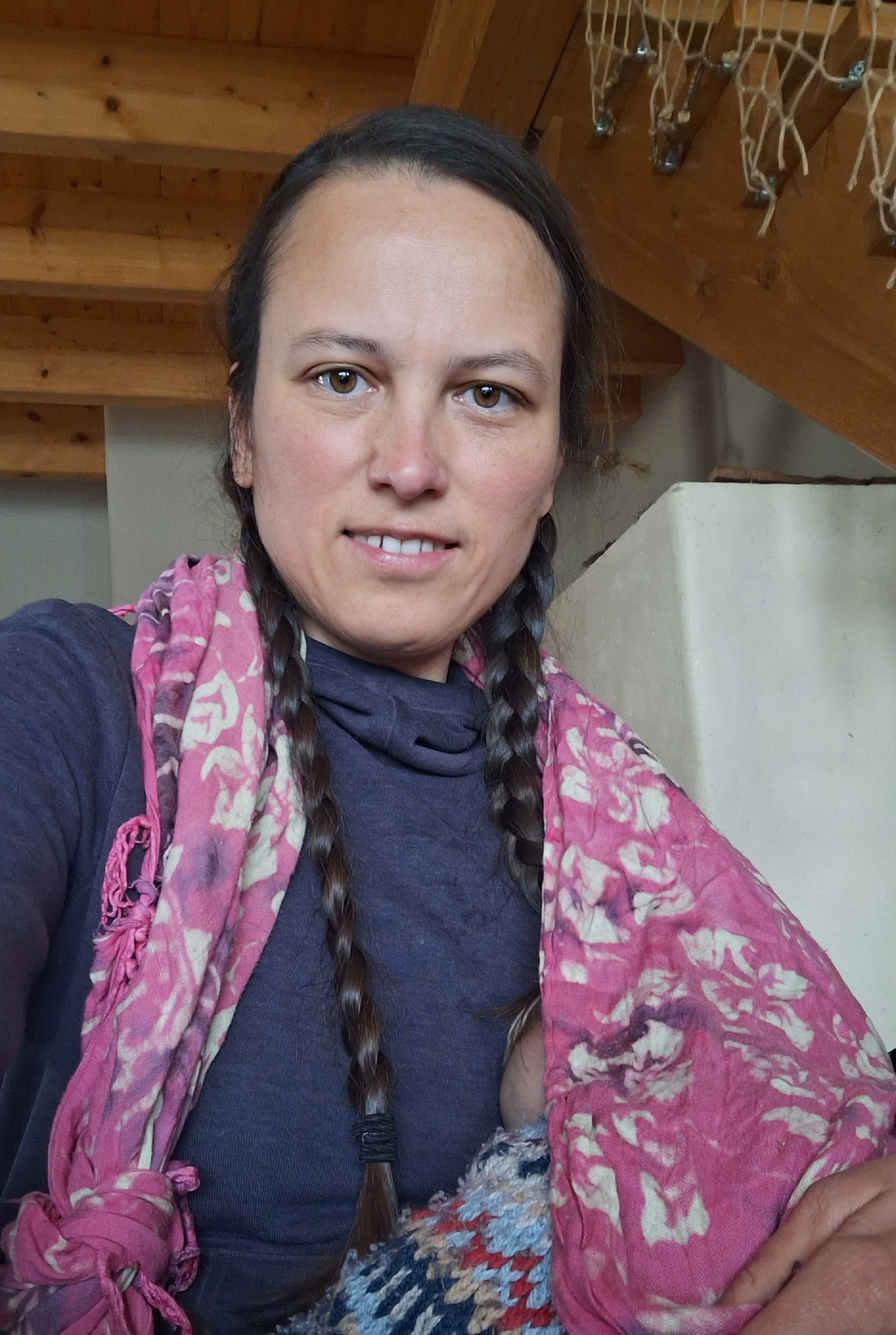
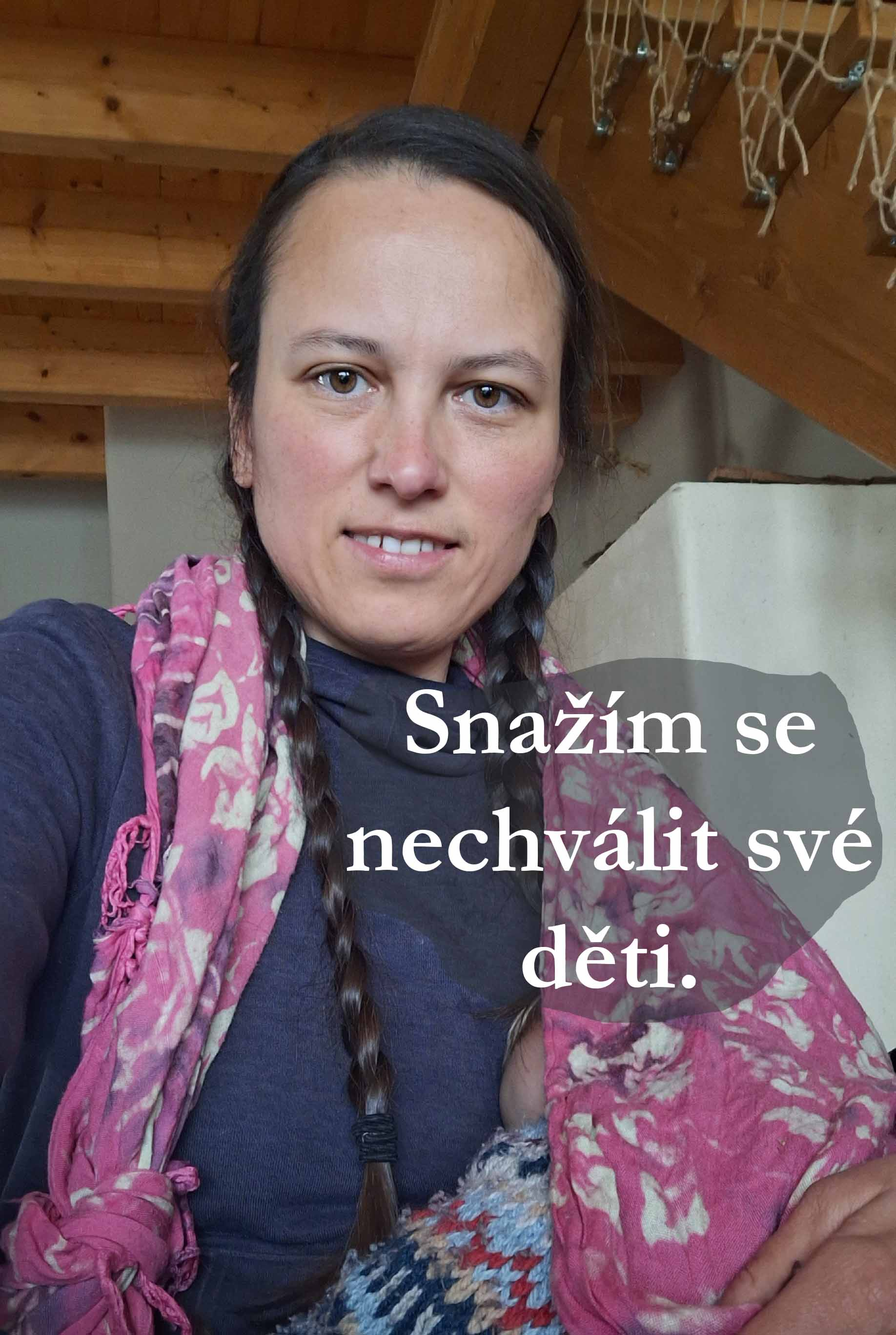
006chyba

Changed region(s): [[0.3725, 0.4662, 0.9935, 0.777]]

diff --git a/blog/006_chyba.html b/blog/006_chyba.html
@@ -1,0 +1,87 @@
+---
+layout: layouts/article.njk
+title: "Ulevte si. Chybovat je normální."
+perex: "Možná se nebojíme samotné chyby. Možná se bojíme toho, co bude znamenat pro naši hodnotu. O úzkosti z dokonalosti, slonovi v křeči a o tom, proč bezpečí nevzniká z bezchybnosti, ale ze schopnosti vztahy opravovat."
+datum: "22. 5. 2026"
+picture: "/img/blog/006_chyba/Tos nemela mamo.jpg"
+picture_title: "Tos neměla, mámo! – S nadhledem a vařechou proti tlaku na dokonalost."
+tags: "clanky"
+---
+
+
+<p class="article-content__highlight">Možná se nebojíme samotné chyby. Možná se bojíme, co bude znamenat pro naši hodnotu.</p>
+
+<p>Všichni děláme chyby. I když se jim snažíme ze všech sil vyhnout. Co pro vás taková chyba znamená? Pro někoho je to selhání, odsouzení, ostuda nebo potupa. Nejraději bychom v tu chvíli zalezli pod peřinu a nikdy se neukázali. Chyba ale taky může být příležitost, objev, posílení, projev lidskosti, pokora, sblížení nebo objetí. Může se s ní v klidu žít, když ji vezmeme jako přirozenou součást cesty.</p>
+
+<p>Dovolíte si chybovat, nebo potřebujete mít vždy všechno správně? Žádná odpověď není špatná. Je jen vaše.</p>
+
+<p>Hodně z nás dnes říká, že <em>„chyba je příležitost k učení“</em>. Ale žijeme to doopravdy? Náš racionální Jezdec (neokortex) si přečetl spoustu knih a ví, že chybovat je lidské. Jenže náš emoční Slon (amygdala a starší části mozku) vnímá chybu jako okamžité ohrožení. Když máme pocit, že jsme selhali, Slon spustí poplach, jako by nám šlo o život. Proto je tak těžké to, co víme hlavou, opravdu propustit do těla a prožít.</p>
+
+<p>Když uděláme chybu, jako by se v hlavě rozsvítil seznam: <em>Jsem špatná máma. Špatný chlap. Špatná dcera. Špatný zaměstnanec. Špatná šéfka. Špatný člověk.</em></p>
+
+<p>Dokonalosti se můžeme jen blížit, ale nikdo tam nikdy nedojde. Za sebe říkám: bohudík. Chtěli byste být vážně bezchybní? Jak by vás pak brali ostatní? Dá se s dokonalým člověkem vůbec dýchat?</p>
+
+<h2>Dva vnitřní světy: Jak reagujeme na přešlap?</h2>
+
+<p>Psycholožka Carol Dwecková popisuje dva různé způsoby, jak naše mysl k chybám přistupuje. Zvlášť pokud ve svém životě nesete velkou odpovědnost, děláte smysluplnou práci a chcete věci měnit k lepšímu, se tyto dva světy vteřinu po chybě začnou prát o slovo.</p>
+
+<p><strong>V tom prvním, fixním nastavení mysli</strong>, věříme, že naše hodnota je pevně daná. Každá chyba se stává rozsudkem o tom, kým jsme. Chyba znamená, že JSME špatní. 
+    Když se něco nepovede, veškerou energii vrhneme do obrany vlastního ega. Buď v hlavě stavíme zeď z výmluv a viníků venku, nebo se brutálně otočíme proti sobě. "Jsem k ničemu."
+    Výsledkem je křeč, vyčerpání a strach udělat jakýkoli další krok.</p>
+
+<p><strong>V druhém, růstovém nastavení mysli</strong>, věříme, že schopnosti a moudrost se vyvíjejí skrze praxi a úsilí. Selhání sice bolí, ale nedefinuje nás. Je to prostě jen informace: <em>„Tudy cesta nevede, zkus to jinak.“</em> Růstová mysl netouží hned něčím dokonale BÝT, baví ji se tím SMĚREM STÁVAT. Oddělí své „já“ od události. Místo sebekritiky investuje energii do řešení.</p>
+
+<div class="article-content__cta-inline">
+    <div class="article-interact" style="margin: 0; padding: 1rem 0; background-color: transparent;">
+        <p><strong>Jak přejít od křeče k uvolnění?</strong></p>
+        <p class="article-interact__question" style="font-size: 1.3rem; margin-bottom: 1.5rem;">
+            Když se příště přistihnete, že se kvůli chybě propadáte do země, co si BUDETE CHTÍT říct?
+        </p>
+        
+        <details class="article-interact__details">
+            <summary class="article-cta__button" style="font-size: 1rem; padding: 0.6rem 1.5rem; min-width: auto;">
+                Vyslovte si to nahlas a klikněte
+            </summary>
+            <div class="article-interact__content" style="margin-top: 2rem;">
+                <p class="article-interact__question" style="font-size: 1.3rem; margin-bottom: 0;">
+                    Co vám pomůže, abyste si to skutečně v tu chvíli řekli?
+                </p>
+            </div>
+        </details>
+    </div>
+</div>
+
+<h2>Vstříc chybám!</h2>
+
+<p>Snažím se pouštět přemýšlení typu chytrý/hloupý i dokonalý/nedokonalý. Pouštím se do chyb, protože vím, že mě posouvají dál. Opravdu bych nežila, kdybych se jich neustále bála (a přiznávám, občas se jich bojím pořád). Vracím se k tomu, že strach je v pořádku, chyba je v pořádku a nevědět je taky v pořádku.</p>
+
+<p>Máte to úplně jinak než já? I to je v pořádku. Každý si ty své břehy a hranice musíme osahat sami. Důležité je, aby nám v nich bylo dobře. <strong>Síla ne</strong> pro mě znamená mimo jiné i možnost vrátit se k sobě. Utváří prostor, kde můžeme být tím, kým doopravdy jsme. Žít se svými chybami k tomu neodmyslitelně patří.</p>
+
+<p class="article-content__highlight">„Tos neměla, mámo!“ (nebo ségra, drahoušku, kolegyně…)</p>
+
+<p>Jak byste na tuto větu reagovali? Já si představuju, jak mi ji jednou řeknou moje vlastní děti. <em>„Mami, tos neměla. Proč jsi mě prostě víc nechválila?“</em> Nebo něco podobného. Výčitky přijdou. To je moje jediná jistota, protože chyby jako máma dělám a dělat budu. A víte, co jim na to odpovím?</p>
+
+<p class="article-content__thought">„Snažila jsem se dělat to nejlepší. Mrzí mě, že jsem tohle pro tebe nemohla udělat dřív. Co bys teď ode mě potřeboval? Jsem tu pro tebe a vždycky budu.“</p>
+
+<p>Nebudu vysvětlovat. Nebudu se obhajovat. Přijmu to, co mi říkají, odložím ego a nabídnu pomoc. Chyby dělám i jako manželka, kolegyně nebo dcera. A vždycky to můžu říct podobně: <em>„To jsem nechtěla, promiň, můžu to nějak napravit?“</em></p>
+
+<p>Lékař a autor Gabor Maté často připomíná, že žádný lidský vztah nefunguje bez chyb a občasného odpojení. Klíč k blízkosti a bezpečí ale neleží v tom, že budeme dokonale bezchybní partneři, rodiče nebo přátelé. Leží v naší schopnosti ty vztahy <strong>opravovat</strong>. V naší odvaze unést vlastní přešlap a jít za tím druhým s touhou to napravit.</p>
+
+<p>Bezpečí nevzniká z dokonalosti, ale z možnosti vztah neustále opravovat. Pro mě je to nesmírně osvobozující. Stále nesu plnou odpovědnost, ale konečně si dovolím chybovat. Můžu chybovat. Ufff.</p>
+
+<div class="article-interact">
+    <div class="article-interact__step">
+        <p class="article-cta__text">Chcete chybovat s větší lehkostí?</p>
+        <p>Nemusíte v tom tichu a tlaku na dokonalost zůstávat sami. Zkuste koučování se mnou.</p>
+
+        <div style="margin-top: 2.5rem;">
+            <a href="https://calendly.com/kar-chovancova/koucink" class="article-cta__button">Zkusit koučování</a>
+        </div>
+        
+        <p class="article-cta__text">Zajímají vás podobná témata? Věnuju se jim i ve svém Nedělníku.</p>
+
+        <div class="article-cta__actions">
+            <a href="https://silane.cz/nedelnik/" class="article-cta__button">Odebírat Nedělník</a>
+        </div>
+    </div>
+</div>
